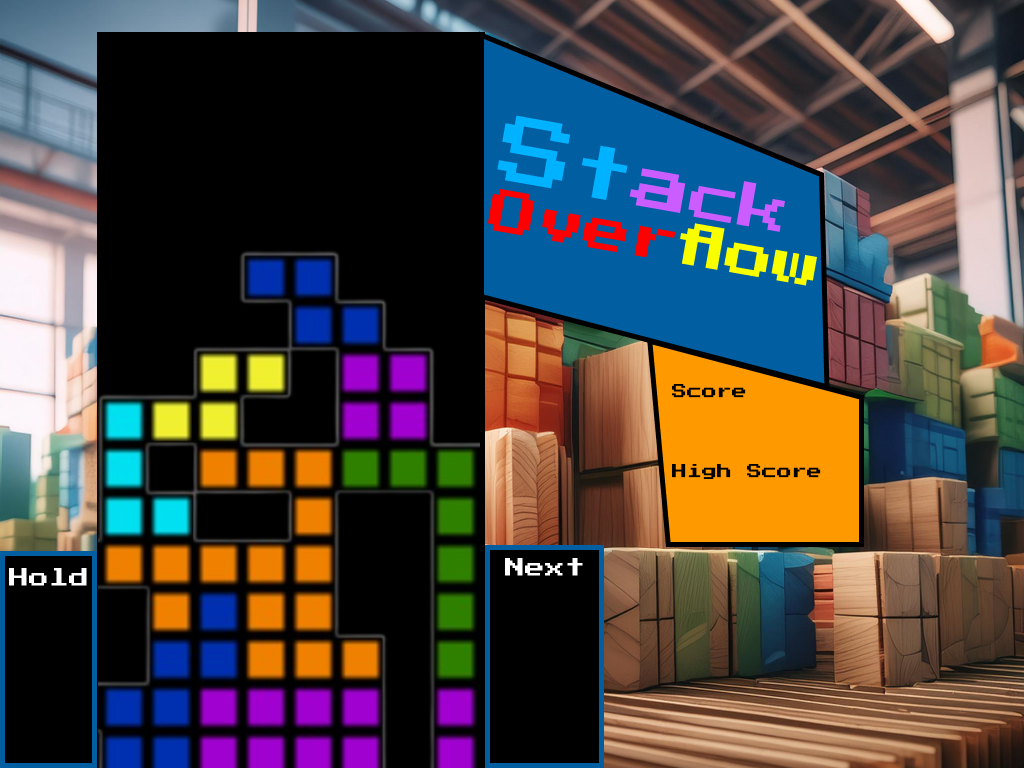
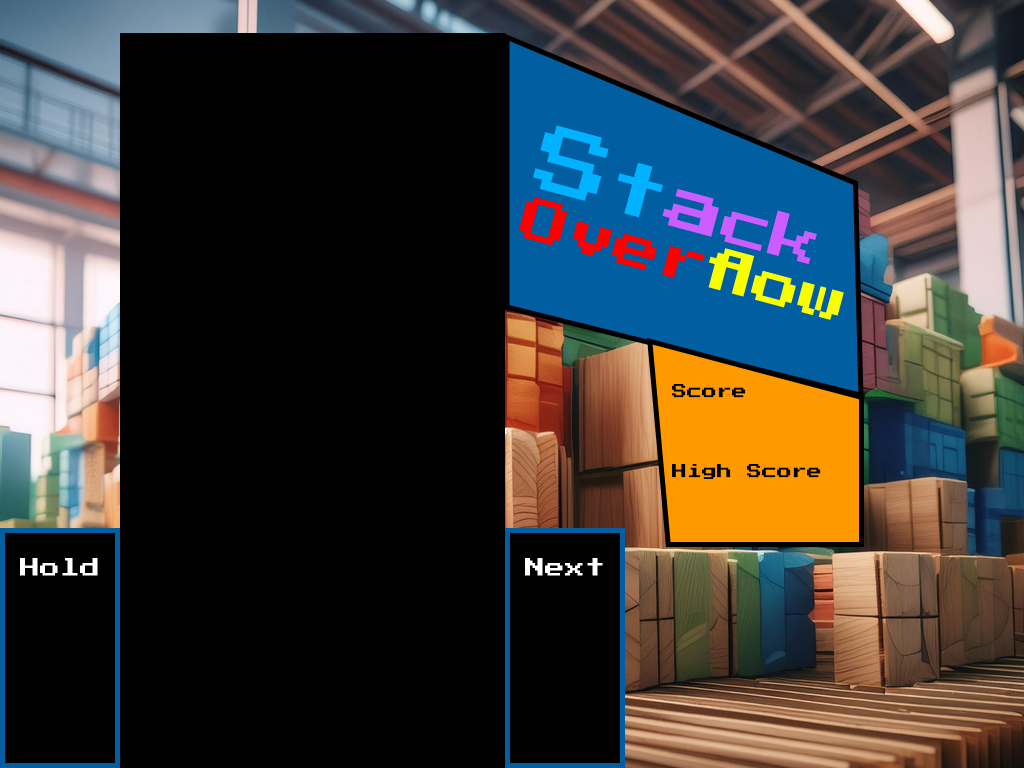
menu screen

Changed region(s): [[0.0, 0.0312, 0.8438, 1.0], [0.625, 0.4375, 0.6562, 0.4688]]

diff --git a/GamePanel.java b/GamePanel.java
@@ -14,9 +14,10 @@ public class GamePanel extends JPanel implements Runnable, KeyListener {
   public Image image;
   public Image background;
   public Graphics graphics;
-  private boolean menuScreen = true;
+  private boolean menuScreen = false;
   private boolean gameRunning = false;
   private boolean finished = false;
+  private boolean infoScreen = true;
   // public PlayerBall ball;
 
   public GamePanel() {
@@ -33,11 +34,6 @@ public class GamePanel extends JPanel implements Runnable, KeyListener {
 
     gameThread = new Thread(this);
     gameThread.start();
-
-    try {
-      background = ImageIO.read(new File("Images/background.png"));
-    } catch (Exception e) {
-    }
   }
 
   public void paint(Graphics g) {
@@ -49,10 +45,11 @@ public class GamePanel extends JPanel implements Runnable, KeyListener {
   }
 
   public void draw(Graphics g) {
-    g.drawImage(background, 0, 0, null);
-    g.setColor(Color.RED);
-    g.fillRect(90, 20, 400, 750);
-    // ball.draw(g);
+    if (menuScreen) {
+      g.drawImage(background, 0, 0, null);
+      // ball.draw(g);
+    }
+
   }
 
   public void move() {
@@ -80,15 +77,11 @@ public class GamePanel extends JPanel implements Runnable, KeyListener {
         repaint();
         delta--;
       }
-
-      if (menuScreen){
-        PlayMusic.playMenuMusic();
-        menuScreen = false;
-      }
     }
   }
 
   public void keyPressed(KeyEvent e) {
+    gameStarter(e);
     // ball.keyPressed(e);
   }
 
@@ -98,5 +91,20 @@ public class GamePanel extends JPanel implements Runnable, KeyListener {
 
   public void keyTyped(KeyEvent e) {
 
+  }
+
+  public void gameStarter(KeyEvent e) {
+    if (infoScreen) {
+      if (e.getKeyCode() == KeyEvent.VK_SPACE) {
+        infoScreen = false;
+        menuScreen = true;
+        PlayMusic.playMenuMusic();
+
+        try {
+          background = ImageIO.read(new File("Images/Background.png"));
+        } catch (Exception x) {
+        }
+      }
+    }
   }
 }

diff --git a/Block.java b/Block.java
@@ -85,7 +85,7 @@ public class Block extends Rectangle {
   }
 
   public void setStatus(int s) {
-    this.status = s;
+    status = s;
   }
 
   public void draw(Graphics g) {
